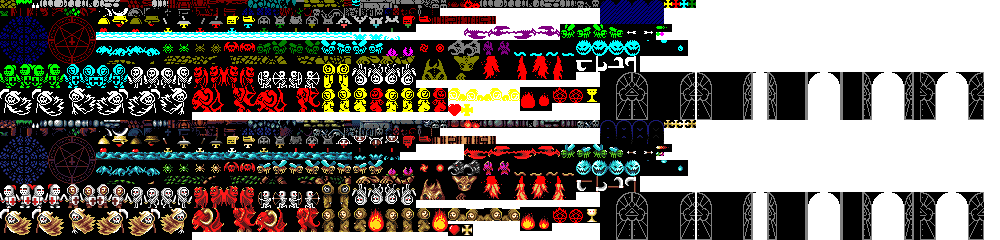
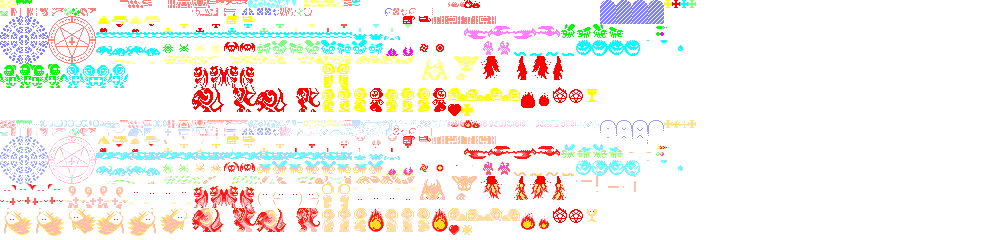
[SDL2] Fixes screen & statusbar draw

diff --git a/src/drawing.c b/src/drawing.c
@@ -14,7 +14,7 @@ void drawscreen (SDL_Renderer *renderer,uint stagedata[][22][32],SDL_Texture *ti
 	int coordx = 0;
 	int coordy = 0;
 	SDL_Rect srctiles = {0,0,8,8};
-	SDL_Rect destiles = {0,0,0,0};
+	SDL_Rect destiles = {0,0,8,8};
 	uint data = 0;
 
 	for (coordy=0; coordy<=21; coordy++) {
@@ -99,6 +99,8 @@ void drawscreen (SDL_Renderer *renderer,uint stagedata[][22][32],SDL_Texture *ti
 					srctiles.w = 16;
 					srctiles.h = 16;
 				}
+				destiles.w = srctiles.w;
+				destiles.h = srctiles.h;
 				if ((data == 152) || (data == 137) || (data == 136)) {
 					if (changeflag == 0) {
 						srctiles.y = srctiles.y + (changetiles * 120);
@@ -115,20 +117,15 @@ void drawscreen (SDL_Renderer *renderer,uint stagedata[][22][32],SDL_Texture *ti
 
 }
 
-void statusbar (SDL_Renderer *renderer,SDL_Texture *tiles,int room[],int lifes,int crosses,TTF_Font *font,uint changetiles) {
+void statusbar (SDL_Renderer *renderer,SDL_Texture *tiles,int room[],int lifes,int crosses,SDL_Texture *fonts,uint changetiles) {
 
 	SDL_Rect srcbar = {448,104,13,12};
-	SDL_Rect desbar = {0,177,0,0};
-	SDL_Color fgcolor = {255,255,255}; /* Color de la fuente, blanco */
-	SDL_Surface *score = NULL;
-	SDL_Texture *scoretext = NULL;
-	SDL_Rect desscore = {0,0,0,0};
+	SDL_Rect desbar = {0,177,13,12};
+	SDL_Rect srcnumbers = {0,414,10,10};
+	SDL_Rect desnumbers = {18,178,10,10};
+	SDL_Rect srctext = {0,0,136,18};
+	SDL_Rect destext = {119,176,136,18};
 	int i = 0;
-
-	char data[1];
-	char screenname[18];
-	int width = 0;
-	int height = 0;
 
 	/* Show heart and crosses sprites */
 	if (changetiles == 1)
@@ -139,78 +136,25 @@ void statusbar (SDL_Renderer *renderer,SDL_Texture *tiles,int room[],int lifes,i
 	desbar.x = 32;
 	SDL_RenderCopy(renderer,tiles,&srcbar,&desbar);
 
-	desscore.y = 174;
-
 	for (i=0; i<=2; i++) {
 		switch (i) {
-			case 0: sprintf(data, "%d", lifes);
-							score = TTF_RenderText_Solid(font, data, fgcolor);
-							scoretext = SDL_CreateTextureFromSurface(renderer,score);
-							desscore.x = 18;
+			case 0: srcnumbers.x = lifes * 10;
+							SDL_RenderCopy(renderer,fonts,&srcnumbers,&desnumbers);
 							break;
-			case 1: sprintf(data, "%d", crosses);
-							score = TTF_RenderText_Solid(font, data, fgcolor);
-							scoretext = SDL_CreateTextureFromSurface(renderer,score);
-							desscore.x = 50;
+			case 1: desnumbers.x = 50;
+							srcnumbers.x = crosses * 10;
+							SDL_RenderCopy(renderer,fonts,&srcnumbers,&desnumbers);
 							break;
-			case 2:
-				if (room[0] == 1)
-					sprintf (screenname, "A prayer of Hope");
-				if (room[0] == 2)
-					sprintf (screenname, "Tower of the Bell");
-				if (room[0] == 3)
-					sprintf (screenname, "Wine supplies");
-				if (room[0] == 5)
-					sprintf (screenname, "Escape !!!");
-				if (room[0] == 6)
-					sprintf (screenname, "Death is close");
-				if (room[0] == 7)
-					sprintf (screenname, "Abandoned church");
-				if (room[0] == 8)
-					sprintf (screenname, "The Altar");
-				if (room[0] == 9)
-					sprintf (screenname, "Hangman tree");
-				if (room[0] == 10)
-					sprintf (screenname, "Pestilent Beast");
-				if (room[0] == 11)
-					sprintf (screenname, "Cave of illusions");
-				if (room[0] == 12)
-					sprintf (screenname, "Plagued ruins");
-				if (room[0] == 13)
-					sprintf (screenname, "Catacombs");
-				if (room[0] == 14)
-					sprintf (screenname, "Hidden garden");
-				if (room[0] == 15)
-					sprintf (screenname, "Gloomy tunels");
-				if (room[0] == 16)
-					sprintf (screenname, "Lake of despair");
-				if (room[0] == 17)
-					sprintf (screenname, "The wheel of faith");
-				if (room[0] == 18)
-					sprintf (screenname, "Banquet of Death");
-				if (room[0] == 19)
-					sprintf (screenname, "Underground river");
-				if (room[0] == 20)
-					sprintf (screenname, "Unexpected gate");
-				if (room[0] == 21)
-					sprintf (screenname, "Evil church");
-				if (room[0] == 22)
-					sprintf (screenname, "Tortured souls");
-				if (room[0] == 23)
-					sprintf (screenname, "Ashes to ashes");
-				if (room[0] == 24)
-					sprintf (screenname, "Satan !!!");
-
-				score = TTF_RenderText_Solid(font, screenname, fgcolor);
-				scoretext = SDL_CreateTextureFromSurface(renderer,score);
-				TTF_SizeText(font, screenname, &width, &height);
-				desscore.x = 256 - width;
-				break;
+			case 2: if ((room[0] > 0) && (room[0] < 4)) {
+								srctext.y = (room[0] - 1) * 18;
+								SDL_RenderCopy(renderer,fonts,&srctext,&destext);
+							}
+							if (room[0] > 4) {
+								srctext.y = (room[0] - 2) * 18;
+								SDL_RenderCopy(renderer,fonts,&srctext,&destext);
+							}
+							break;
 		}
-
-		SDL_RenderCopy(renderer,scoretext,NULL,&desscore);
-		SDL_DestroyTexture(scoretext);
-		SDL_FreeSurface(score);
 
 	}
 
@@ -295,56 +239,30 @@ void drawshoots (float proyec[],SDL_Texture *tiles,SDL_Renderer *renderer,struct
 
 }
 
-void showparchment (SDL_Renderer *renderer,uint *parchment,SDL_Texture *yparchment) {
+void showparchment (SDL_Renderer *renderer,uint *parchment) {
 
-	TTF_Font *font = TTF_OpenFont("../fonts/VeniceClassic.ttf",18);
-	SDL_Surface *text = NULL;
-	SDL_Texture *textsurf = NULL;
-	SDL_Color fgcolor = {0,0,0};
-	SDL_Rect destext = {0,0,0,0};
-	int height = 0;
-	int width = 0;
-	char line1[18];
-	char line2[20];
-
-	SDL_RenderCopy(renderer,yparchment,NULL,NULL);
+	SDL_Texture *yparchment = NULL;
 
 	switch (*parchment) {
-		case 3: sprintf (line1, "Twelve crosses");
-						sprintf (line2, "against the devil");
+		case 3: yparchment = IMG_LoadTexture(renderer,"../graphics/parchment1.png");
 						break;
-		case 8:	sprintf (line1, "Twelve brothers");
-						sprintf (line2, "hid and died here");
+		case 8:	yparchment = IMG_LoadTexture(renderer,"../graphics/parchment2.png");
 						break;
-		case 12: sprintf (line1, "Four brothers");
-						 sprintf (line2, "changed their faith");
+		case 12: yparchment = IMG_LoadTexture(renderer,"../graphics/parchment3.png");
 						 break;
-		case 14: sprintf (line1, "An invisible path");
-						 sprintf (line2, "over a wood bridge");
+		case 14: yparchment = IMG_LoadTexture(renderer,"../graphics/parchment4.png");
 						 break;
-		case 16: sprintf (line1, "Jump to death");
-						 sprintf (line2, "and prove your faith");
+		case 16: yparchment = IMG_LoadTexture(renderer,"../graphics/parchment5.png");
 						 break;
-		case 21: sprintf (line1, "Glide through");
-						 sprintf (line2, "the beast cage");
+		case 21: yparchment = IMG_LoadTexture(renderer,"../graphics/parchment6.png");
 						 break;
+
 	}
 
-	text = TTF_RenderText_Blended(font, line1, fgcolor);
-	textsurf = SDL_CreateTextureFromSurface(renderer,text);
-	TTF_SizeText(font, line1, &width, &height);
-	destext.x = 127 - (width / 2);
-	destext.y = 81 - height;
-	SDL_RenderCopy(renderer,textsurf,NULL,&destext);
-	text= TTF_RenderText_Blended(font, line2, fgcolor);
-	textsurf = SDL_CreateTextureFromSurface(renderer,text);
-	TTF_SizeText(font, line2, &width, &height);
-	destext.x = 127 - (width / 2);
-	destext.y = 85;
-	SDL_RenderCopy(renderer,textsurf,NULL,&destext);
-	SDL_DestroyTexture(textsurf);
-	TTF_CloseFont(font);
-	SDL_FreeSurface(text);
+	SDL_RenderCopy(renderer,yparchment,NULL,NULL);
+	SDL_DestroyTexture(yparchment);
+
+	*parchment = 0;
 
 }
 

diff --git a/src/game.c b/src/game.c
@@ -48,7 +48,7 @@ void game(SDL_Window *screen,uint *state,uint *grapset) {
 
 	/* Loading PNG */
 	SDL_Texture *tiles = IMG_LoadTexture(renderer,"../graphics/tiles.png");
-	SDL_Texture *yparchment = IMG_LoadTexture(renderer,"../graphics/parchment.png");
+	SDL_Texture *fonts = IMG_LoadTexture(renderer,"../graphics/fonts.png");
 
 	/* Loading musics */
 	loadingmusic(bso,fx);
@@ -104,6 +104,16 @@ void game(SDL_Window *screen,uint *state,uint *grapset) {
 		/* Cleaning the renderer */
 		SDL_RenderClear(renderer);
 
+		/* Change graphic set */
+		if (keyp == 9) {
+			keyp = 0;
+			if (changetiles == 0)
+				changetiles = 1;
+			else
+				changetiles = 0;
+			*grapset = changetiles;
+		}
+
 		/* Animation of fire and water */
 		animation(stagedata,room,counter);
 
@@ -112,7 +122,7 @@ void game(SDL_Window *screen,uint *state,uint *grapset) {
 
 		/* Draw statusbar */
 		if (room[0] != 4)
-			statusbar(renderer,tiles,room,jean.state[0],jean.state[1],font,changetiles);
+			statusbar(renderer,tiles,room,jean.state[0],jean.state[1],fonts,changetiles);
 
 		/* Draw Jean */
 		if (jean.flags[6] < 8)
@@ -206,7 +216,7 @@ void game(SDL_Window *screen,uint *state,uint *grapset) {
 		}
 		/* Parchments */
 		if (parchment > 0)
-			showparchment (renderer,parchment,yparchment);
+			showparchment (renderer,&parchment);
 		if (jean.flags[6] == 3)
 			redparchment (renderer,&jean);
 		if (jean.flags[6] == 6)
@@ -256,7 +266,7 @@ void game(SDL_Window *screen,uint *state,uint *grapset) {
 
 	/* Cleaning */
 	SDL_DestroyTexture(tiles);
-	SDL_DestroyTexture(yparchment);
+	SDL_DestroyTexture(fonts);
 	SDL_DestroyRenderer(renderer);
 	for (i=0;i<8;i++)
 		Mix_FreeMusic(bso[i]);
@@ -678,8 +688,7 @@ void keybpause (uint *keyp) {
 
 	while (SDL_PollEvent(&event)) {
 		if (event.type == SDL_KEYDOWN) {
-			if ((event.key.keysym.sym == SDLK_SPACE) ||
-				(event.key.keysym.sym == SDLK_LEFT) || (event.key.keysym.sym == SDLK_RIGHT))
+			if ((event.key.keysym.sym == SDLK_SPACE) || (event.key.keysym.sym == SDLK_LEFT) || (event.key.keysym.sym == SDLK_RIGHT))
 					*keyp = 1;
 		}
 	}

diff --git a/src/enemies.c b/src/enemies.c
@@ -35,7 +35,7 @@ void searchenemies (uint room[], struct enem *enemies, int *changeflag, int enem
 void drawenemies (struct enem *enemies,SDL_Renderer *renderer,SDL_Texture *tiles,Mix_Chunk *fx[],uint changetiles) {
 
 	SDL_Rect srctile = {0,0,16,16};
-	SDL_Rect destile = {0,0,0,0};
+	SDL_Rect destile = {0,0,16,16};
 
 	int i = 0;
 
